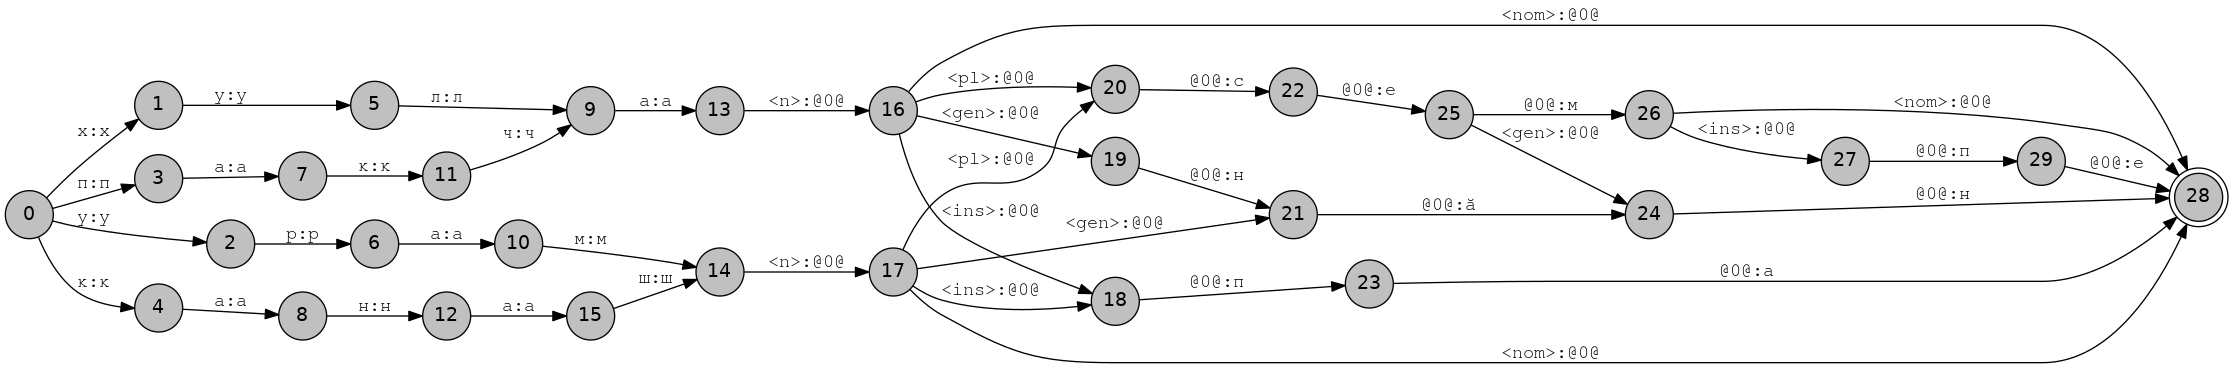
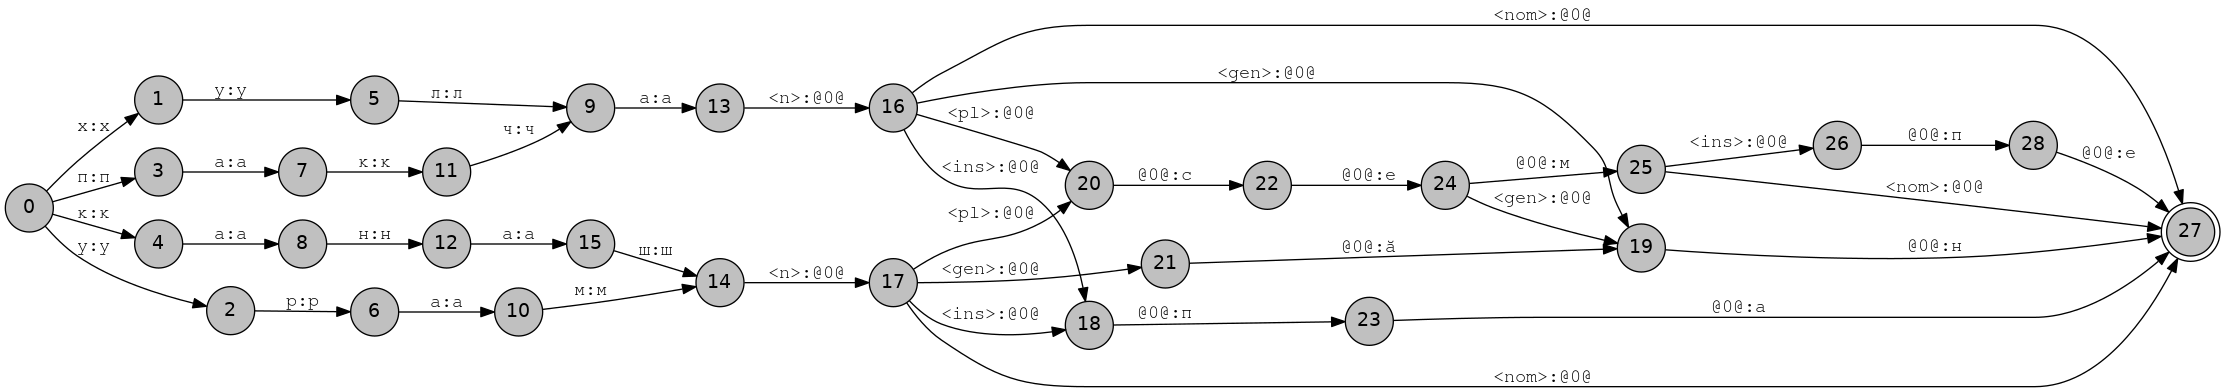
fix chuvash examples

diff --git a/2017-КЛ_МКЛ/hfst.html b/2017-КЛ_МКЛ/hfst.html
@@ -600,7 +600,7 @@ at the Chuvash genitive to get an idea of how rules can interact.
   <tr><th>Context</th><th>Form</th></tr>
 </thead>
 <tbody>
-  <tr><td><tt>-а, -е</tt></td><td>-нӑн, -нӗн<br/>-н</td></tr>
+  <tr><td><tt>-а, -е</tt></td><td>-ӑн, -ӗн<br/>-н</td></tr>
   <tr><td><tt>-и</tt></td><td>-йӗн<br/>-н</td></tr>
   <tr><td><tt>-C</tt></td><td>-ӑн, -ӗн</td></tr>
   <tr><td><tt>-Cӑ, -Cӗ</tt></td><td>-CCӑн, -CCӗн</td></tr>
@@ -661,8 +661,8 @@ we need to generate the following forms:
 <tbody>
   <tr><td>урам</td><td><tt>урамӑн</tt></td><td>урамсен</td></tr>
   <tr><td>канаш</td><td><tt>канашӑн</tt></td><td>канашсен</td></tr>
-  <tr><td>пакча</td><td><tt>пакчанӑн</tt></td><td>пакчасен</td></tr>
-  <tr><td>хула</td><td><tt>хуланӑн</tt></td><td>хуласен</td></tr>
+  <tr><td>пакча</td><td><tt>пакчан</tt></td><td>пакчасен</td></tr>
+  <tr><td>хула</td><td><tt>хулан</tt></td><td>хуласен</td></tr>
 </tbody>
 </table>
 </div>
@@ -672,19 +672,18 @@ morpheme looks special, because it changes to <em>-н</em> in the plural genitiv
 our plural morpheme to <tt>%&gt;се%{м%}</tt>. The next question is what do we do with that?
 </p>
 <ol>
-  <li>The genitive morpheme will be <tt>%&gt;%{н%}%{Ǎ%}н</tt> after both singular and plural
+  <li>The genitive morpheme will be <tt>%&gt;%{Ǎ%}н</tt> after both singular and plural
   <ul>
-    <li><tt>%{м%}:0</tt> if there is a following <tt>%{н%}</tt> </li>
-    <li><tt>%{н%}:0</tt> if there is a preceding <tt>%{м%}</tt> </li>
-    <li><tt>%{Ӑ%}:0</tt> if previous <tt>%{н%}</tt> corresponds to <tt>0</tt> 
+    <li><tt>%{Ӑ%}:0</tt> if there is a surface vowel before the morpheme boundary</tt> 
+    <li><tt>%{Ӑ%}:0</tt> if there is previous <tt>%{м%}:0</tt></tt> 
+    <li><tt>%{м%}:0</tt> if there is a following <tt>%{Ă%}:</tt> followed by <tt>н</tt></li>
     <li><tt>%{Ă%}:ӑ</tt> or <tt>%{Ã%}:ӗ</tt> according to vowel harmony if previous consonant</li>
-    <li><tt>%{н%}:н</tt> if there is a preceding vowel </li>
   </ul></li>
-  <li>The genitive morpheme will be <tt>%&gt;%{н%}</tt> in plural and <tt>%&gt;%{н%}%{Ǎ%}н</tt> in singular
+  <li>The genitive morpheme will be <tt>%&gt;%{н%}</tt> in plural and <tt>%&gt;%{Ǎ%}н</tt> in singular
   <ul>
-    <li><tt>%{н%}:0</tt> if it is the end of the string</li>
-    <li><tt>%{м%}:н</tt> if there is a following <tt>%{н%}:0</tt></li>
-    <li><tt>%{Ӑ%}:0</tt> if previous <tt>%{н%}</tt> corresponds to <tt>0</tt> 
+    <li><tt>%{н%}:н</tt> if it is the end of the string</li>
+    <li><tt>%{м%}:0</tt> if there is a following <tt>%{н%}:н</tt></li>
+    <li><tt>%{Ӑ%}:0</tt> if there is a surface vowel before the morpheme boundary</tt> 
     <li><tt>%{Ă%}:ӑ</tt> or <tt>%{Ã%}:ӗ</tt> according to vowel harmony if previous consonant</li>
   </ul></li>
 </ol>
@@ -701,8 +700,8 @@ output:
 </p>
 <pre>
 $ hfst-fst2strings chv.lexc.hfst | grep урам | grep gen
-урам&lt;n&gt;&lt;gen&gt;:урам&gt;{н}{Ă}н
-урам&lt;n&gt;&lt;pl&gt;&lt;gen&gt;:урам&gt;се{м}&gt;{н}{Ă}н
+урам&lt;n&gt;&lt;gen&gt;:урам&gt;{Ă}н
+урам&lt;n&gt;&lt;pl&gt;&lt;gen&gt;:урам&gt;се{м}&gt;{Ă}н
 </pre>
 <p>
 If you are having problems doing it, then ask for help. Remember to declare your archiphonemes! When 
@@ -711,7 +710,6 @@ file:
 </p>
 <pre>
  %{Ă%}:ӑ %{Ă%}:ӗ %{Ă%}:0
- %{н%}:н %{н%}:0
  %{м%}:м %{м%}:0
 </pre>
 <p>
@@ -722,24 +720,15 @@ $ hfst-fst2strings chv.gen.hfst | grep урам | grep gen
 урам&lt;n&gt;&lt;gen&gt;:урамн
 урам&lt;n&gt;&lt;gen&gt;:урамӑн
 урам&lt;n&gt;&lt;gen&gt;:урамӗн
-урам&lt;n&gt;&lt;gen&gt;:урамнн
-урам&lt;n&gt;&lt;gen&gt;:урамнӑн
-урам&lt;n&gt;&lt;gen&gt;:урамнӗн
 урам&lt;n&gt;&lt;pl&gt;&lt;gen&gt;:урамсен
 урам&lt;n&gt;&lt;pl&gt;&lt;gen&gt;:урамсеӑн
 урам&lt;n&gt;&lt;pl&gt;&lt;gen&gt;:урамсеӗн
-урам&lt;n&gt;&lt;pl&gt;&lt;gen&gt;:урамсенн
-урам&lt;n&gt;&lt;pl&gt;&lt;gen&gt;:урамсенӑн
-урам&lt;n&gt;&lt;pl&gt;&lt;gen&gt;:урамсенӗн
 урам&lt;n&gt;&lt;pl&gt;&lt;gen&gt;:урамсемн
 урам&lt;n&gt;&lt;pl&gt;&lt;gen&gt;:урамсемӑн
 урам&lt;n&gt;&lt;pl&gt;&lt;gen&gt;:урамсемӗн
-урам&lt;n&gt;&lt;pl&gt;&lt;gen&gt;:урамсемнн
-урам&lt;n&gt;&lt;pl&gt;&lt;gen&gt;:урамсемнӑн
-урам&lt;n&gt;&lt;pl&gt;&lt;gen&gt;:урамсемнӗн
 </pre>
 <p>
-As you can see we have a rather large number of invalid forms generated by our alphabet expansion this
+As you can see we have a fair number of invalid forms generated by our alphabet expansion this
 time. 
 </p>
 <p>
@@ -751,30 +740,34 @@ surface forms with invalid vowel harmony by taking our previous rule and adaptin
 %{Ă%}:ӑ &lt;=&gt; BackVow: [ ArchiCns: | Cns: | %&gt;: ]+ _ ;
 </pre>
 <p>
-I've added one new set here, <tt>ArchiCns = %{н%} %{м%} ;</tt> to represent the archiphonemes for 
-consonant that can be <tt>0</tt> on the surface. Save the rule and recompile and test,
+I've added one new set here, <tt>ArchiCns = %{м%} ;</tt> to represent the archiphoneme for 
+the consonant that can be <tt>0</tt> on the surface. Save the rule and recompile and test,
 </p>
 <pre>
 $ hfst-fst2strings chv.gen.hfst | grep урам | grep gen
 урам&lt;n&gt;&lt;gen&gt;:урамӑн
-урам&lt;n&gt;&lt;gen&gt;:урамнӑн
 урам&lt;n&gt;&lt;pl&gt;&lt;gen&gt;:урамсен
 урам&lt;n&gt;&lt;pl&gt;&lt;gen&gt;:урамсеӗн
-урам&lt;n&gt;&lt;pl&gt;&lt;gen&gt;:урамсенн
-урам&lt;n&gt;&lt;pl&gt;&lt;gen&gt;:урамсенӗн
 урам&lt;n&gt;&lt;pl&gt;&lt;gen&gt;:урамсемн
 урам&lt;n&gt;&lt;pl&gt;&lt;gen&gt;:урамсемӗн
-урам&lt;n&gt;&lt;pl&gt;&lt;gen&gt;:урамсемнн
-урам&lt;n&gt;&lt;pl&gt;&lt;gen&gt;:урамсемнӗн
 </pre>
 <p>
 That's better, what should we try and tackle next ? How about constraining <tt>%{A%}</tt> to be <tt>0</tt>
-when following <tt>%{м%}</tt> and <tt>%{н%}</tt>?
+when following <tt>%{м%}</tt> ?
 </p>
 <pre>
-"{Ã} doesn't surface in plural genitive"
-%{Ă%}:0 <=> %{м%}: %&gt;: %{н%}: _ н ; 
+"Non surface {Ã} in plural genitive"
+%{Ă%}:0 &lt;=&gt; %{м%}: %&gt;: _ н ; 
 </pre>
+<p>
+ <div class="panel panel-default">
+<div class="panel-body">
+<span class="fa fa-warning"></span> <b>WARNING!</b> Remember to put the <tt>:</tt> after the <tt>%{м%}</tt>, an easy
+   mistake to make is to just put <tt>%{м%}</tt> but remember that without the <tt>:</tt> that would mean the symbol
+   pair <tt>%{м%}:%{м%}</tt> and archiphonemes should never be found on the surface side.
+</div>
+</div>
+</p>
 <p>
 And let's compile:
 </p>
@@ -789,8 +782,8 @@ Writing output to chv.twol.hfst.
 Reading alphabet.
 Reading sets.
 Reading rules and compiling their contexts and centers.
-<b>There is a &lt;=-rule conflict between "Back vowel harmony for archiphoneme {Ă}" and "Non surface {Ã} in plural genitive".
-E.g. in context __HFST_TWOLC_.#.:__HFST_TWOLC_.#. ё:ё ҫ:ҫ {м}:м &gt;: {н}:н _ н:н __HFST_TWOLC_.#.:__HFST_TWOLC_.#. </b>
+<b>There is a <=-rule conflict between "Back vowel harmony for archiphoneme {Ă}" and "Non surface {Ã} in plural genitive".
+E.g. in context __HFST_TWOLC_.#.:__HFST_TWOLC_.#. ё:ё ҫ:ҫ {м}:м >: _ н:н __HFST_TWOLC_.#.:__HFST_TWOLC_.#. </b>
 
 Compiling rules.
 Storing rules.
@@ -809,7 +802,7 @@ Argghhh! What happened ? Well, the problem is that we have two rules that say co
   <div class="col-xs-8">
 (b)<pre style="width:80%">
 "Non surface {Ã} in plural genitive"
-%{Ă%}:0 &lt;=&gt; %{м%}: %&gt;: %{н%}: _ н ; 
+%{Ă%}:0 &lt;=&gt; %{м%}: %&gt;: _ н ; 
 </pre>
   </div>
 </div>
@@ -817,14 +810,14 @@ Argghhh! What happened ? Well, the problem is that we have two rules that say co
 So let's take a look at the string pairs:
 </p>
 <pre>
-(a)    у р а м &gt; с е {м} &gt; {н} {Ă} н
-       у р а м 0 с е  0  0  0   ӗ  н
-                   ^------------^
+(a)    у р а м &gt; с е {м} &gt; {Ă} н
+       у р а м 0 с е  0  0  ӗ  н
+                   ^--------^
 
 (b)
-       у р а м &gt; с е {м} &gt; {н} {Ă} н
-       у р а м 0 с е  0  0  0   0  н
-                      ^---------^
+       у р а м &gt; с е {м} &gt; {Ă} н
+       у р а м 0 с е  0  0  0  н
+                   ^--------^
 </pre>
 <p>
 So the easiest way to fix this is with an <tt>except</tt> clause to the rule. These are written
@@ -834,23 +827,23 @@ as follows:
 "Back vowel harmony for archiphoneme {Ă}"
 %{Ă%}:ӑ &lt;=&gt; BackVow: [ ArchiCns: | Cns: | %&gt;: ]+ _ ;
         except
-                               %{м%}: %&gt;: %{н%}: _ н ; 
+                                     %{м%}: %&gt;:  _ н ; 
 </pre>
 <p>
 We basically limit the rule to work in all contexts apart from those in the <tt>except</tt> clause.
 </p>
 <p>
-I leave the rules for <tt>%{м%}</tt> and <tt>%{н%}</tt> as an exercise for the reader. In the end the result should be:
+I leave the rule for <tt>%{м%}</tt> as an exercise for the reader. In the end the result should be:
 </p>
 <pre>
 $ hfst-fst2strings chv.gen.hfst |grep gen
 канаш&lt;n&gt;&lt;gen&gt;:канашӑн
 канаш&lt;n&gt;&lt;pl&gt;&lt;gen&gt;:канашсен
-пакча&lt;n&gt;&lt;gen&gt;:пакчанӑн
+пакча&lt;n&gt;&lt;gen&gt;:пакчан
 пакча&lt;n&gt;&lt;pl&gt;&lt;gen&gt;:пакчасен
 урам&lt;n&gt;&lt;gen&gt;:урамӑн
 урам&lt;n&gt;&lt;pl&gt;&lt;gen&gt;:урамсен
-хула&lt;n&gt;&lt;gen&gt;:хуланӑн
+хула&lt;n&gt;&lt;gen&gt;:хулан
 хула&lt;n&gt;&lt;pl&gt;&lt;gen&gt;:хуласен
 </pre>
 <p>
@@ -1347,7 +1340,8 @@ In any case, whether you have a complete system or just a list of inflected form
 is to work adding words to the lexicon by <b>frequency</b> of appearance in whichever corpus you 
 have. You might have easy access to a corpus, if not you can use a <a href="https://dumps.wikimedia.org/backup-index.html">
 Wikipedia database backup dump</a> or you can write a webcrawler for some online newspaper. Here
-is a simple <tt>bash</tt> line to make a frequency list 
+is a simple <tt>bash</tt> line to make a frequency list given that you have your Chuvash plain
+text corpus in a file called <tt>chv.crp.txt</tt>:
 </p>
 <pre>
 $ cat chv.crp.txt  | sed 's/[^а-яӑӗăĕҫçА-ЯӐӖĂĔҪÇ]\+/ /g' | tr ' ' '\n' | sort -f | uniq -c | sort -gr
@@ -1577,7 +1571,7 @@ results.
 <h3>Evaluation</h3>
 <p>
 As with all tasks, there are various ways to evaluate morphological transducers. Two of the 
-most popular are:
+most popular are <em>naïve</em> coverage and precision and recall.
 </p>
 
 <h4>Coverage</h4>
@@ -1588,8 +1582,14 @@ that receive at least one analysis from our morphological analyser. We can do th
 in <tt>bash</tt>, for example:
 </p>
 <pre>
-
+$ total=`cat chv.crp.txt  | sed 's/[^а-яӑӗăĕҫçА-ЯӐӖĂĔҪÇ]\+/ /g' | tr ' ' '\n'  | grep -v '^$' | wc -l`
+$ unknown=`cat chv.crp.txt  | sed 's/[^а-яӑӗăĕҫçА-ЯӐӖĂĔҪÇ]\+/ /g' | tr ' ' '\n'  | grep -v '^$' | hfst-lookup -qp chv.mor.hfst  | grep 'inf' | wc -l`
+$ calc "(($total-$unknown)/$total)*100"
+	~0.12990425758725153332
 </pre>
+<p>
+So our current Chuvash analyser has a coverage of 0.12%... not very impressive yet! 
+</p>
 <p>
 Alternatively it would be possible to write a Python script. A good rule of thumb is that given
 an an average sized corpus (under one million tokens) for averagely inflected language (from English 
@@ -1827,7 +1827,11 @@ you might be able to avoid this analysis ?
 </p>
 <h3>Weighting</h3>
 
+<h4>Surface forms</h4>
+- surface forms , -n, -nǎn
+<p>
 
+</p>
 <!--
 $ cat chv.crp.txt  | sed 's/[^а-яӑӗăĕҫçА-ЯӐӖĂĔҪÇ]\+/ /g' | tr ' ' '\n' | sort -f | uniq -c | sort -gr | sed 's/^ //g' | sed 's/ /:/g' > chv.freq.txt
 $ total=`cat chv.crp.txt  | sed 's/[^а-яӑӗăĕҫçА-ЯӐӖĂĔҪÇ]\+/ /g' | tr ' ' '\n' | wc -l`
@@ -1838,8 +1842,11 @@ $ hfst-reweight -e -a $oovweight  chv.gen.hfst >
 
 -->
 
-- surface forms , -n, -nǎn
+<h4>Analyses</h4>
 - analyses given form
+<p>
+
+</p>
 
 <!--
 transliteration
